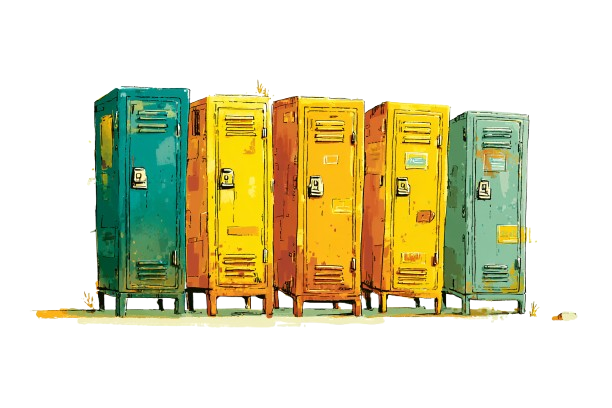
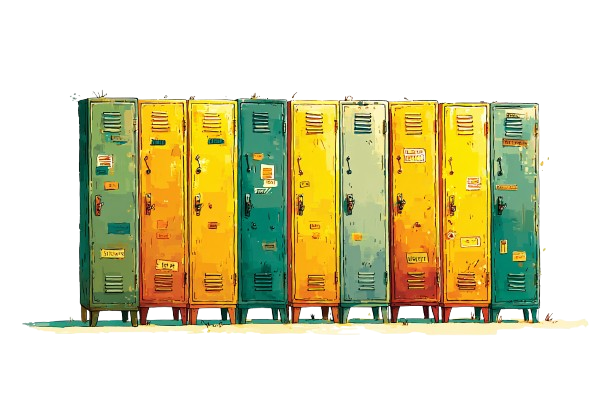
deploy: 1baaec64c0c1e8e797c634e68b6d5d058cf54bd9

diff --git a/flutter_service_worker.js b/flutter_service_worker.js
@@ -46,8 +46,8 @@ const RESOURCES = {"flutter.js": "24bc71911b75b5f8135c949e27a2984e",
 "assets/assets/images/obstacle_bucket.png": "9fb30f2610f93eea8a310e7814b9043a",
 "assets/assets/images/obstacle_cone.png": "279c4044bcad5980003063f785360528",
 "assets/assets/images/bg_science_lab.png": "2b2079714887a9e2e483ef485dae70e6",
-"assets/assets/images/bg_layer_lockers.png": "8fbf8d3352b83efd2f5acccee1358c94",
-"assets/assets/images/ernie_run_2.png": "bc5ce189503775801e87b718c7aa039c",
+"assets/assets/images/bg_layer_lockers.png": "fb3cf630ca1fb40f3d274c42eda78ff0",
+"assets/assets/images/ernie_run_2.png": "6a5aaadc7bbc5e3d1727be503e47b723",
 "assets/assets/audio/ding.mp3": "49f022c2efd0ac6d8a248a42b41a66e2",
 "assets/assets/audio/staff_coach.mp3": "9f440f5c489f83f6bc1ec0bcf8f1d9fa",
 "assets/assets/audio/bonk.mp3": "7fcb8aec6a84ed7045db95f7eff16db9",
@@ -82,7 +82,7 @@ const RESOURCES = {"flutter.js": "24bc71911b75b5f8135c949e27a2984e",
 "canvaskit/skwasm.js.symbols": "3a4aadf4e8141f284bd524976b1d6bdc",
 "favicon.png": "5dcef449791fa27946b3d35ad8803796",
 "main.dart.wasm": "f9f8313f9d6c2388b2f3d412d03651b4",
-"flutter_bootstrap.js": "8b7a69218d584a0c7cb89e4be2dcddb3",
+"flutter_bootstrap.js": "859cf4d2829fb9d816e74c4be26e420b",
 "version.json": "c41982e2534aa0d199b69d529a91d374",
 "main.dart.js": "808c231cf390ef1a607f589381f84299"};
 // The application shell files that are downloaded before a service worker can

diff --git a/flutter_bootstrap.js b/flutter_bootstrap.js
@@ -38,6 +38,6 @@ _flutter.buildConfig = {"engineRevision":"587c18f873b8ab57330422bce09047420d9c7f
 
 _flutter.loader.load({
   serviceWorkerSettings: {
-    serviceWorkerVersion: "3537961257"
+    serviceWorkerVersion: "1092645342"
   }
 });
